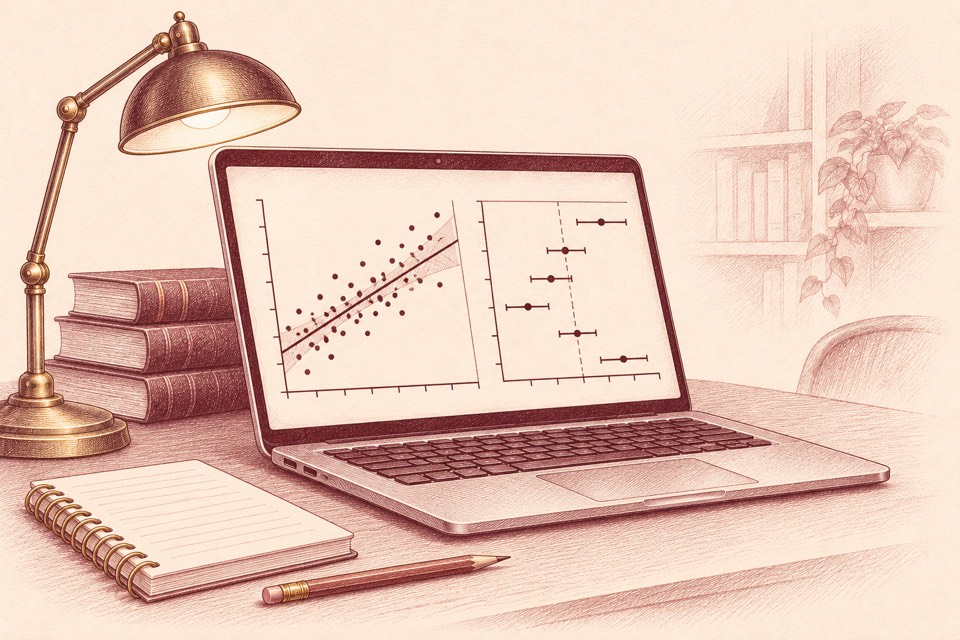
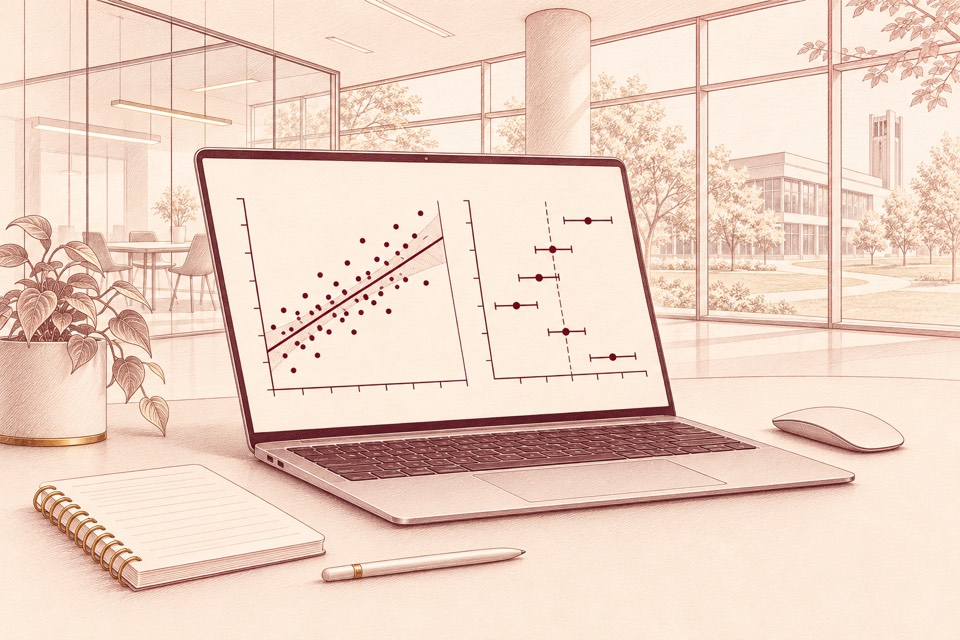
Refresh research illustration with a modern studio setting

diff --git a/research.html b/research.html
@@ -33,7 +33,7 @@
 
     <main class="page">
       <section class="page-header illustrated-intro">
-        <img src="assets/research-sketch.jpg" width="960" height="640" alt="Laptop displaying a scatter plot and interval estimates." />
+        <img src="assets/research-sketch.jpg?v=studio" width="960" height="640" alt="Laptop displaying a scatter plot and interval estimates." />
         <div>
         <p class="eyebrow">Research</p>
         <h1>Research Agenda</h1>
